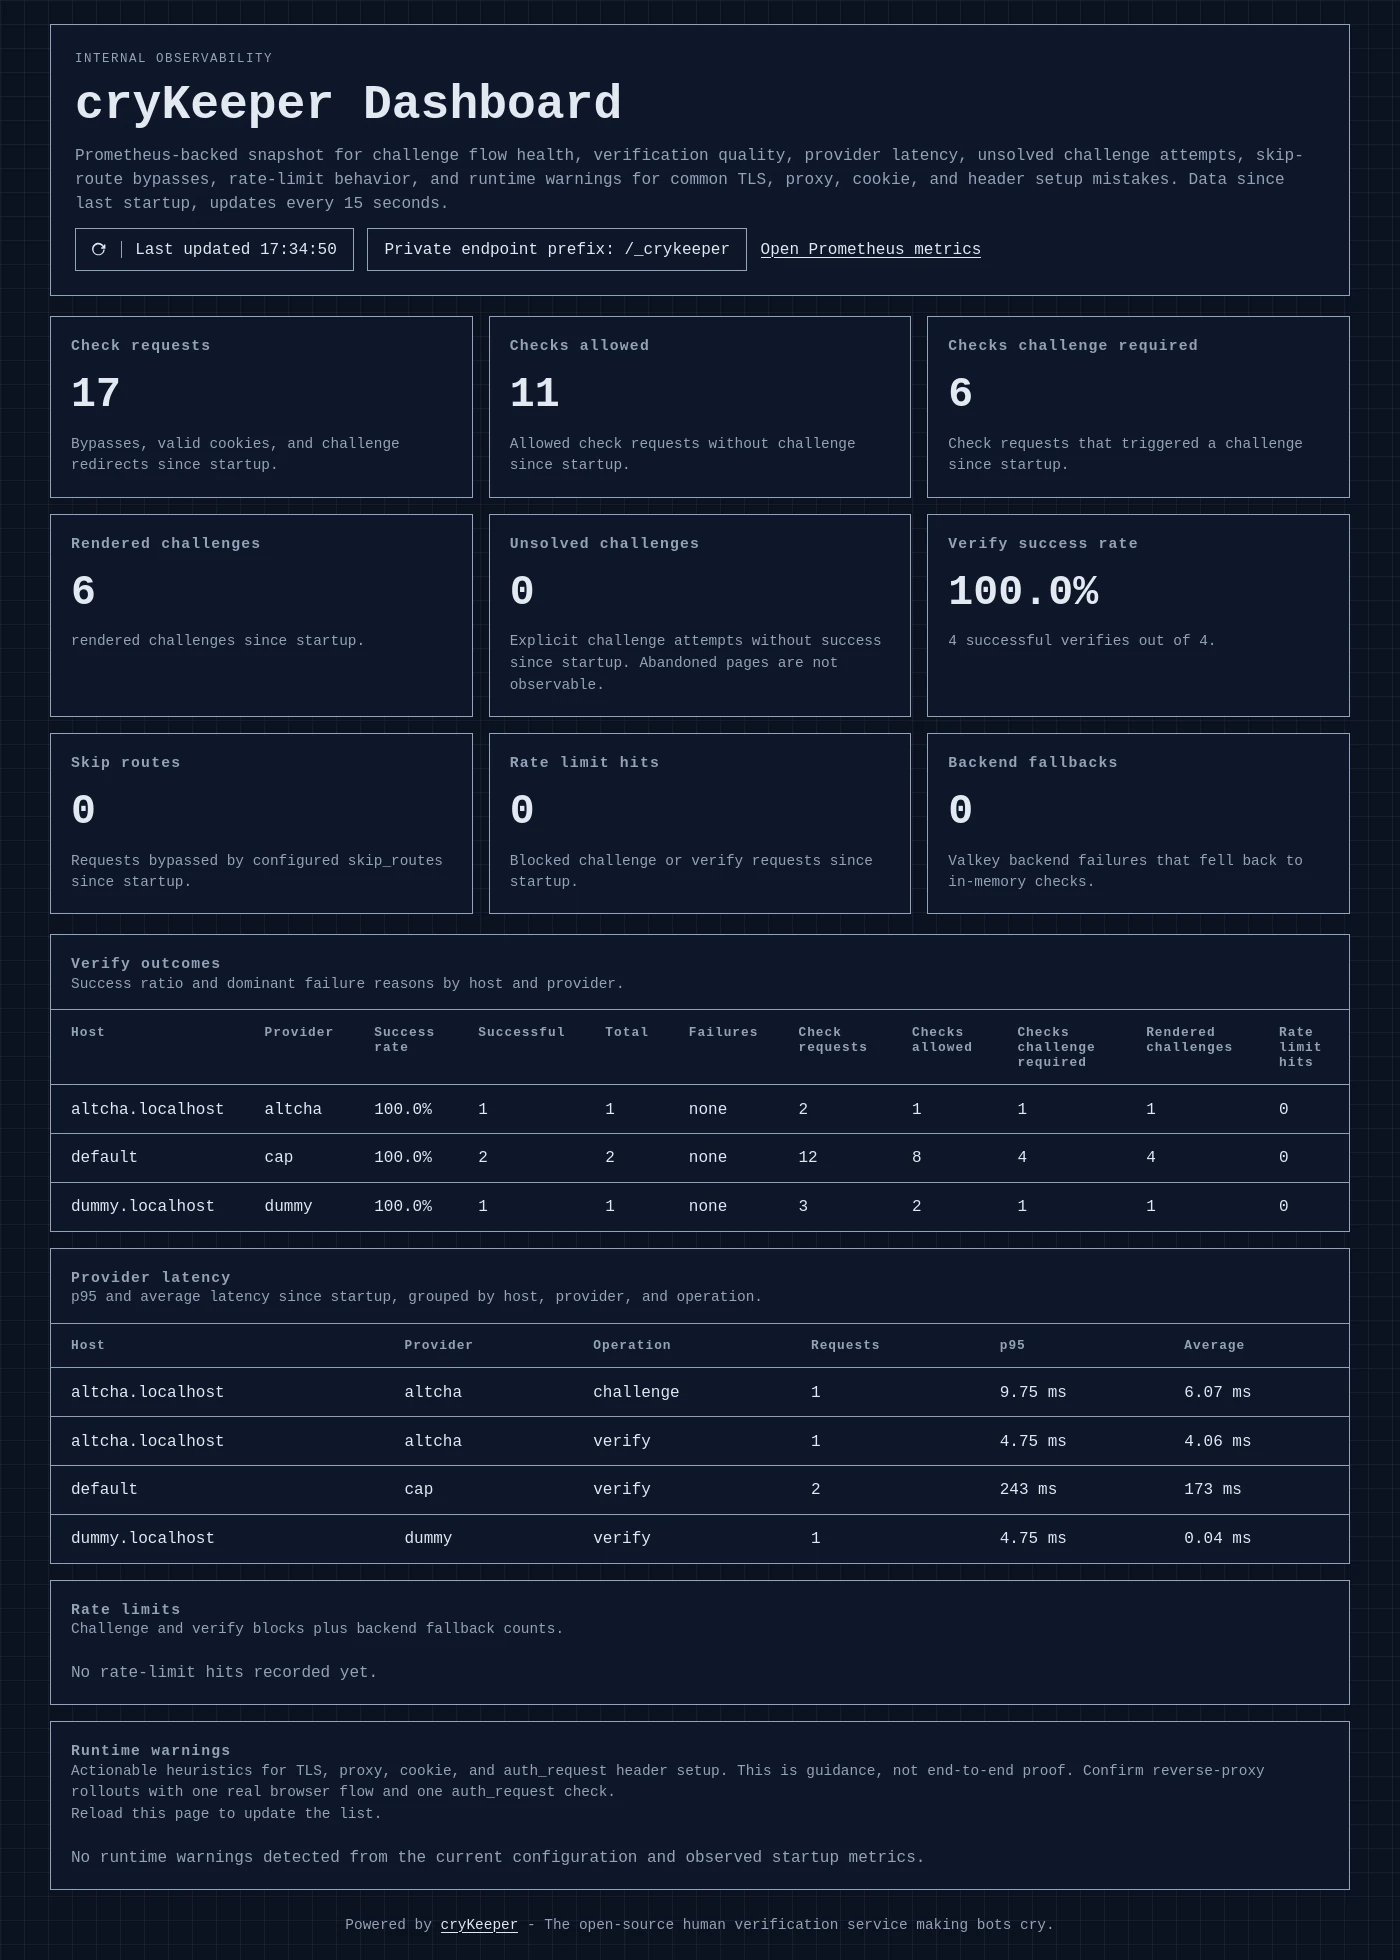
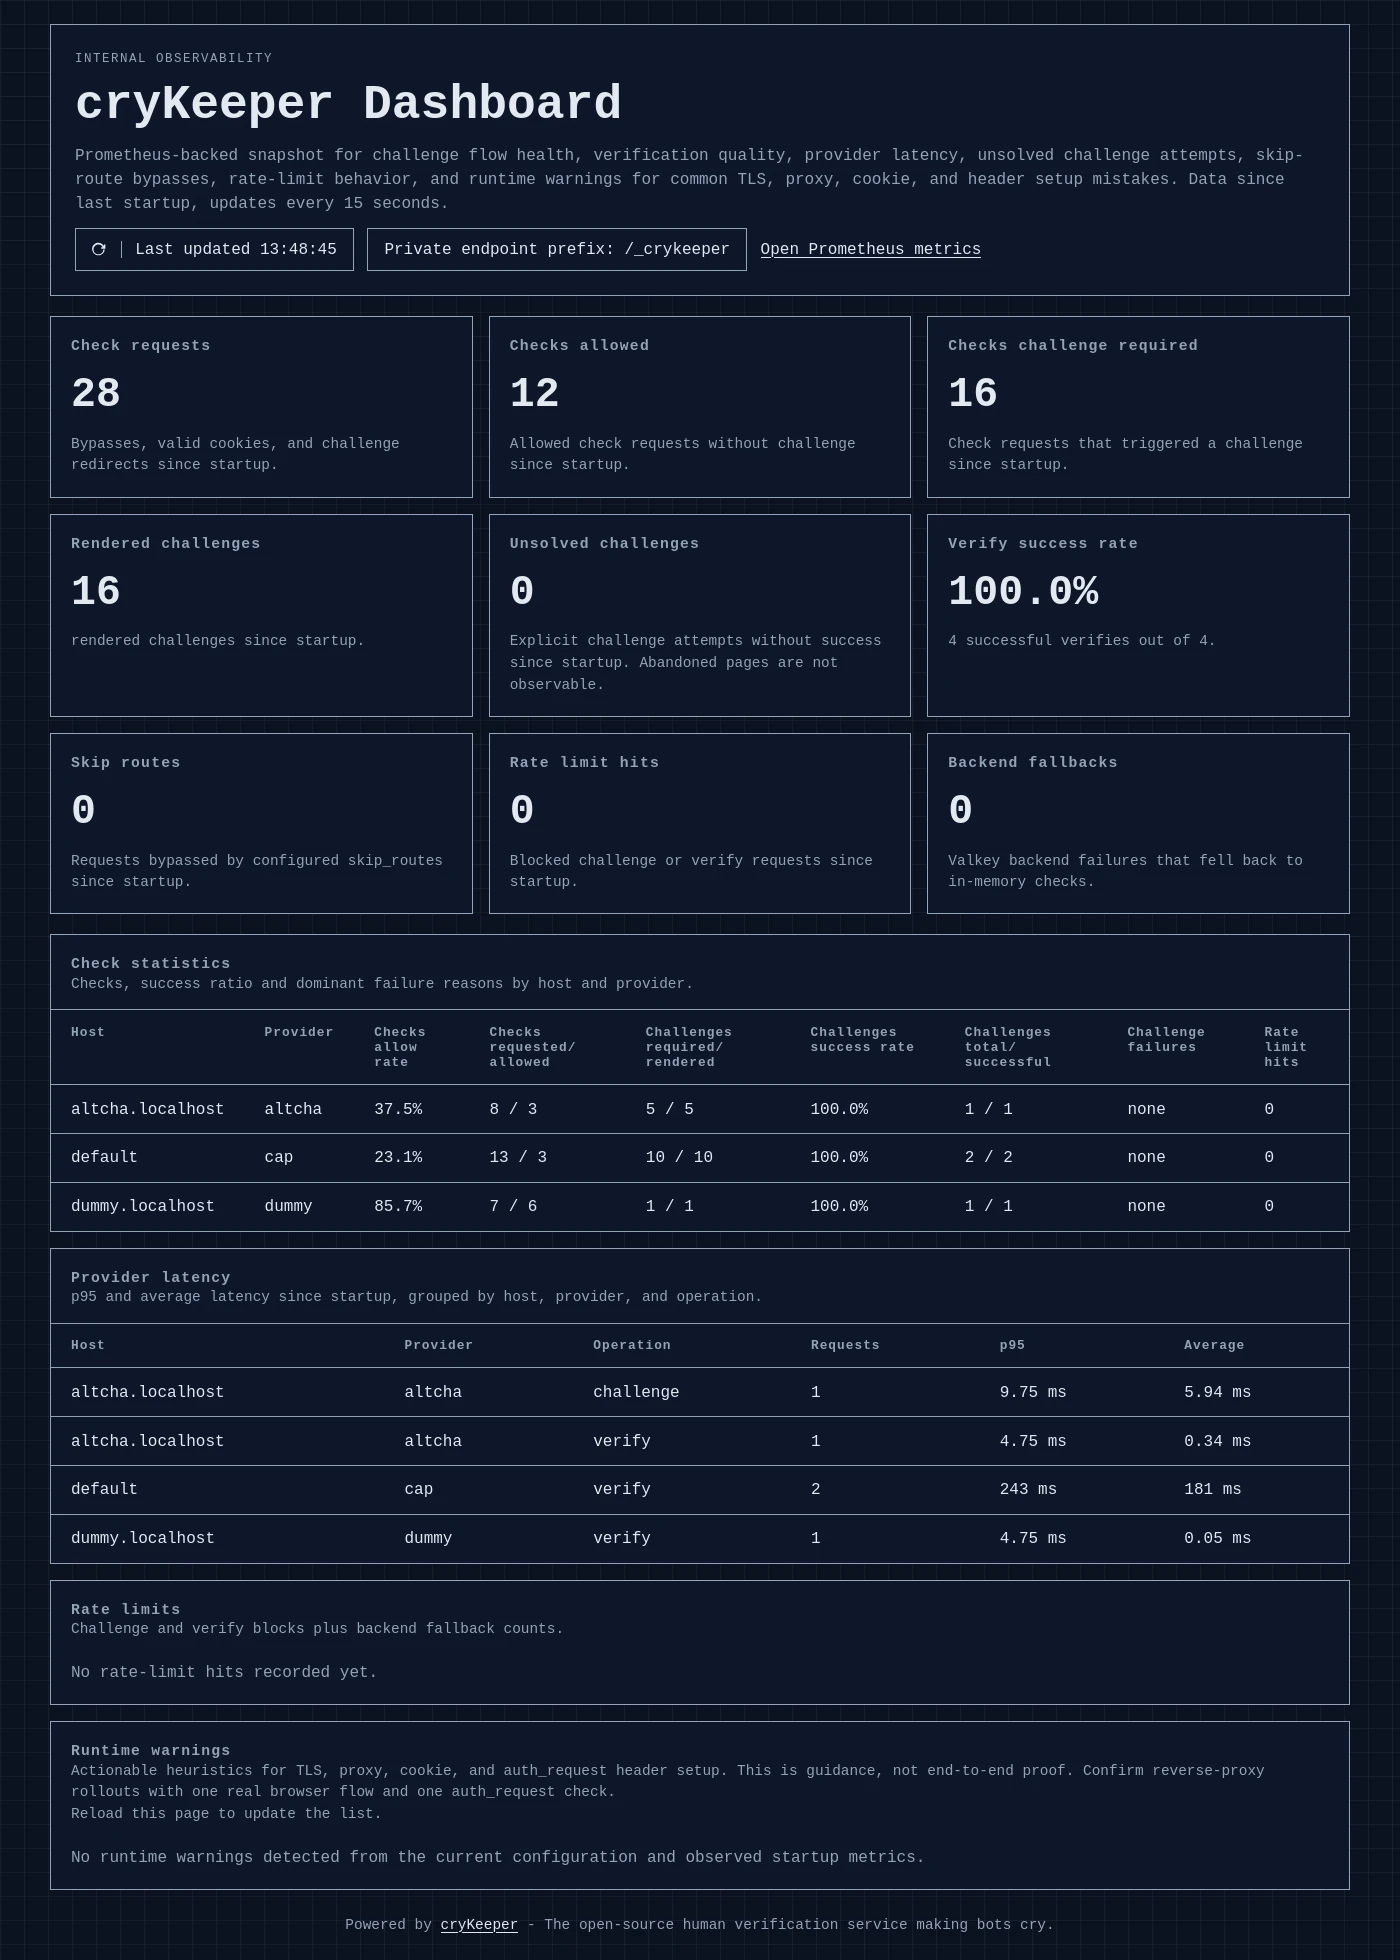
Updated dashboard stats display

diff --git a/app/static/dashboard.js b/app/static/dashboard.js
@@ -231,16 +231,14 @@
         );
 
         return {
-          failures,
           host: row.host,
           provider: row.provider,
+          checks_allow_rate: formatRate(checksAllowed, checkRequests),
+          checks_requested_allowed: `${formatInteger(checkRequests)} / ${formatInteger(checksAllowed)}`,
+          challenges_required_rendered: `${formatInteger(checksChallengeRequired)} / ${formatInteger(renderedChallenges)}`,
           success_rate: formatRate(row.success, row.total),
-          successful: formatInteger(row.success),
-          total: formatInteger(row.total),
-          check_requests: formatInteger(checkRequests),
-          checks_allowed: formatInteger(checksAllowed),
-          checks_challenge_required: formatInteger(checksChallengeRequired),
-          rendered_challenges: formatInteger(renderedChallenges),
+          challenges_total_successful: `${formatInteger(row.total)} / ${formatInteger(row.success)}`,
+          failures,
           rate_limit_hits: formatInteger(rateLimitHits),
         };
       })
@@ -545,14 +543,12 @@
       [
         { heading: "Host", render: (row) => escapeHtml(row.host) },
         { heading: "Provider", render: (row) => escapeHtml(row.provider) },
-        { heading: "Success rate", render: (row) => escapeHtml(row.success_rate) },
-        { heading: "Successful", render: (row) => escapeHtml(row.successful) },
-        { heading: "Total", render: (row) => escapeHtml(row.total) },
-        { heading: "Failures", render: (row) => escapeHtml(row.failures) },
-        { heading: "Check requests", render: (row) => escapeHtml(row.check_requests) },
-        { heading: "Checks allowed", render: (row) => escapeHtml(row.checks_allowed) },
-        { heading: "Checks challenge required", render: (row) => escapeHtml(row.checks_challenge_required) },
-        { heading: "Rendered challenges", render: (row) => escapeHtml(row.rendered_challenges) },
+        { heading: "Checks allow rate", render: (row) => escapeHtml(row.checks_allow_rate) },
+        { heading: "Checks requested/allowed", render: (row) => escapeHtml(row.checks_requested_allowed) },
+        { heading: "Challenges required/rendered", render: (row) => escapeHtml(row.challenges_required_rendered) },
+        { heading: "Challenges success rate", render: (row) => escapeHtml(row.success_rate) },
+        { heading: "Challenges total/successful", render: (row) => escapeHtml(row.challenges_total_successful) },
+        { heading: "Challenge failures", render: (row) => escapeHtml(row.failures) },
         { heading: "Rate limit hits", render: (row) => escapeHtml(row.rate_limit_hits) },
       ],
       rows,

diff --git a/app/templates/dashboard.html b/app/templates/dashboard.html
@@ -57,8 +57,8 @@
         <article class="panel">
           <div class="panel-header">
             <div>
-              <h2>Verify outcomes</h2>
-              <p>Success ratio and dominant failure reasons by host and provider.</p>
+              <h2>Check statistics</h2>
+              <p>Checks, success ratio and dominant failure reasons by host and provider.</p>
             </div>
           </div>
           <div class="panel-table" data-section="verify-rows">
@@ -68,14 +68,12 @@
                   <tr>
                     <th>Host</th>
                     <th>Provider</th>
-                    <th>Success rate</th>
-                    <th>Successful</th>
-                    <th>Total</th>
-                    <th>Failures</th>
-                    <th>Check requests</th>
-                    <th>Checks allowed</th>
-                    <th>Checks challenge required</th>
-                    <th>Rendered challenges</th>
+                    <th>Checks allow rate</th>
+                    <th>Checks requested/allowed</th>
+                    <th>Challenges required/rendered</th>
+                    <th>Challenges success rate</th>
+                    <th>Challenges total/successful</th>
+                    <th>Challenge failures</th>
                     <th>Rate limit hits</th>
                   </tr>
                 </thead>
@@ -84,14 +82,12 @@
                     <tr>
                       <td>{{ row.host }}</td>
                       <td>{{ row.provider }}</td>
+                      <td>{{ row.checks_allow_rate }}</td>
+                      <td>{{ row.checks_requested_allowed }}</td>
+                      <td>{{ row.challenges_required_rendered }}</td>
                       <td>{{ row.success_rate }}</td>
-                      <td>{{ row.successful }}</td>
-                      <td>{{ row.total }}</td>
+                      <td>{{ row.challenges_total_successful }}</td>
                       <td>{{ row.failures }}</td>
-                      <td>{{ row.check_requests }}</td>
-                      <td>{{ row.checks_allowed }}</td>
-                      <td>{{ row.checks_challenge_required }}</td>
-                      <td>{{ row.rendered_challenges }}</td>
                       <td>{{ row.rate_limit_hits }}</td>
                     </tr>
                   {% endfor %}

diff --git a/app/observability.py b/app/observability.py
@@ -537,14 +537,12 @@ def _verify_rows(samples: dict[str, list[object]]) -> list[dict[str, str]]:
       {
         "host": host,
         "provider": provider,
+        "checks_allow_rate": _format_rate(checks_allowed, check_requests),
+        "checks_requested_allowed": f"{_format_integer(check_requests)} / {_format_integer(checks_allowed)}",
+        "challenges_required_rendered": f"{_format_integer(checks_challenge_required)} / {_format_integer(rendered_challenges)}",
         "success_rate": _format_rate(row["success"], row["total"]),
-        "successful": _format_integer(row["success"]),
-        "total": _format_integer(row["total"]),
+        "challenges_total_successful": f"{_format_integer(row['total'])} / {_format_integer(row['success'])}",
         "failures": failure_detail,
-        "check_requests": _format_integer(check_requests),
-        "checks_allowed": _format_integer(checks_allowed),
-        "checks_challenge_required": _format_integer(checks_challenge_required),
-        "rendered_challenges": _format_integer(rendered_challenges),
         "rate_limit_hits": _format_integer(rate_limit_hits),
       }
     )

diff --git a/tests/test_observability.py b/tests/test_observability.py
@@ -117,7 +117,7 @@ class CryKeeperObservabilityTests(unittest.TestCase):
       "Requests bypassed by configured skip_routes since startup.", dashboard_body
     )
     self.assertNotIn('http-equiv="refresh"', dashboard_body)
-    self.assertIn("Verify outcomes", dashboard_body)
+    self.assertIn("Check statistics", dashboard_body)
     self.assertIn("Rate limits", dashboard_body)
     self.assertIn("Runtime warnings", dashboard_body)
     self.assertIn("Trusted proxy hops are disabled", dashboard_body)

diff --git a/CHANGELOG.md b/CHANGELOG.md
@@ -11,6 +11,10 @@ Released versions should use the Git tag as the section title, for example
 
 ## [Unreleased]
 
+### Changed
+
+- Updated dashboard to show "Check statistics" instead of "Verify outcomes" with better organized information.
+
 ## [v0.2.0] - 2026-06-03
 
 ### Added
